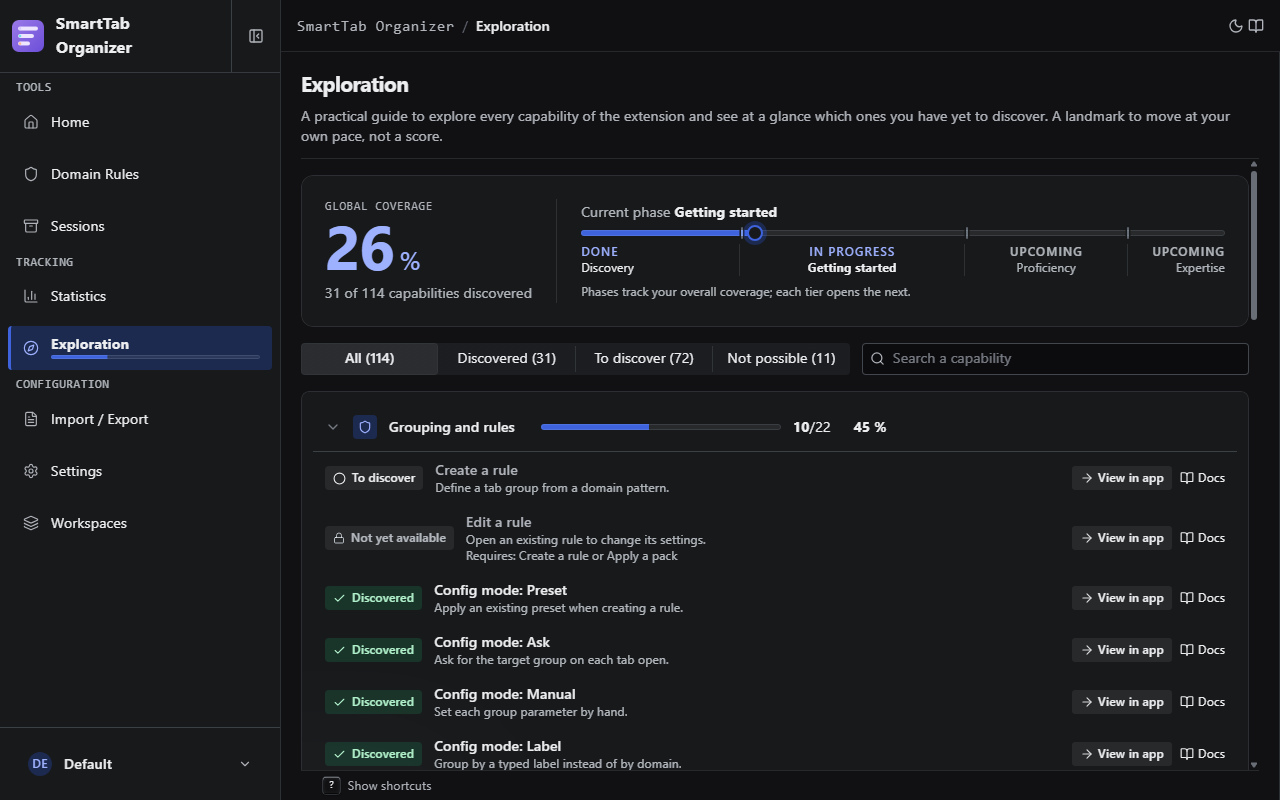
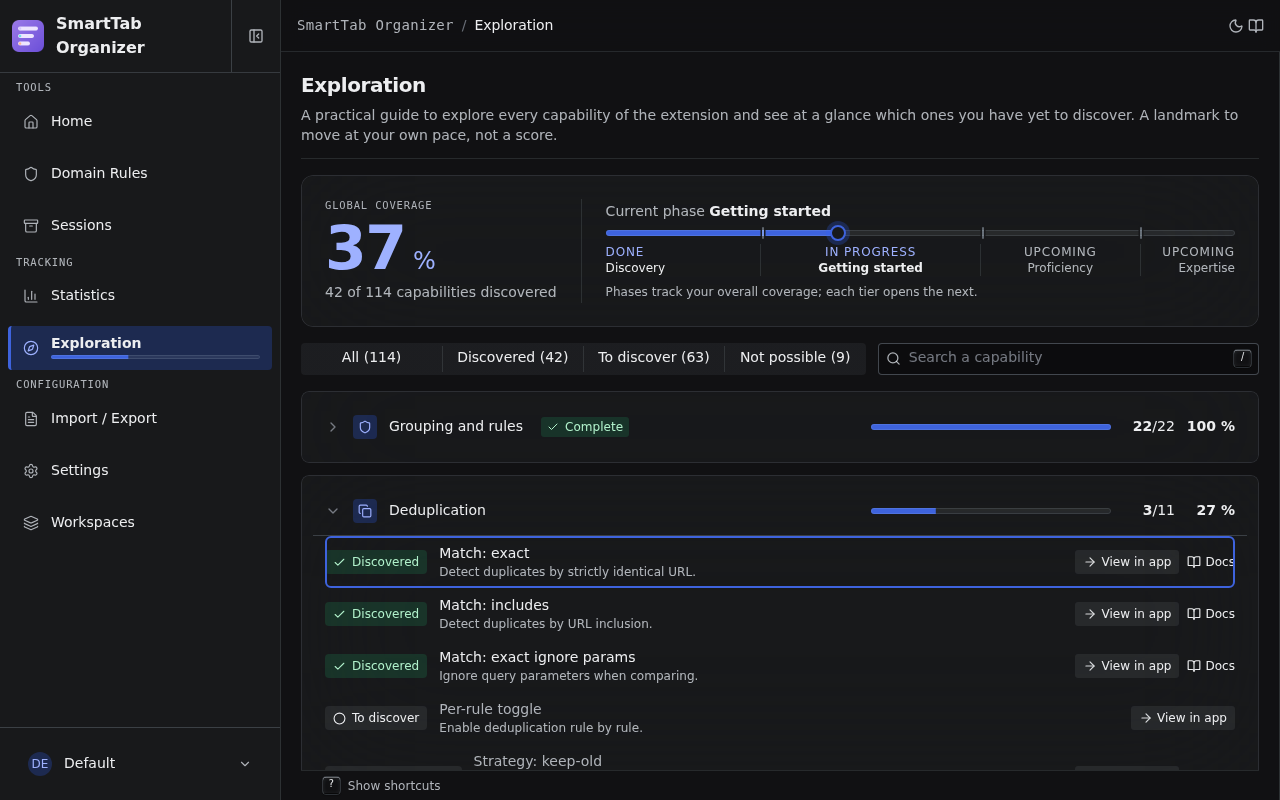
Redesign Exploration capacity-group header layout (#452)
* Redesign Exploration capacity-group header layout

Right-align the progress bar, ratio and percentage cluster on each domain
header row, and move the "Terminé" badge to sit right after the title when
the domain is fully discovered.

- ExplorationDomainGroup.tsx: reorder header children (badge after title)
- Exploration.module.css: fixed-basis .domainBar pushed right via margin-left:auto
- Add a Complete (100%) Storybook story
- Regenerate exploration-overview doc screenshots (3 locales x 2 themes)

* Show a completed domain in the Exploration doc capture

Re-seed scenario 28 so the first domain (grouping) is fully discovered: it
collapses to a header row showing the "Terminé" badge right after the title,
which documents the new completed-group design. The next domain (dedup)
auto-opens and keeps illustrating the three row states (its keep-strategy rows
stay locked because deduplication is no longer enabled in the seed).

Regenerate the exploration-overview screenshots (3 locales x 2 themes).

* Align Exploration progress bars across domain rows

Give the ratio and percentage fixed, right-aligned column widths so a wider
value (e.g. "22/22 100 %") no longer pushes its row's progress bar left. Every
domain bar now ends at the same x position.

Regenerate the exploration-overview screenshots.

---------

diff --git a/e2e-doc-scenarios/scenarios/28-exploration.scenario.ts b/e2e-doc-scenarios/scenarios/28-exploration.scenario.ts
@@ -15,19 +15,26 @@ import { EXPLORATION_MANIFEST } from './28-exploration.routing.js';
 
 const SCENARIO_ID = '28-exploration';
 
-// Curated so the default-open "grouping" domain shows all three states:
-// several discovered rows, "Create a rule" still to discover, and the
-// rule-dependent rows locked (their prerequisite is not met).
+// Curated so the first domain ("grouping") is fully discovered: it collapses to
+// a single header row showing the green "Terminé" badge right after the title,
+// which showcases the completed-group design. The next incomplete domain
+// ("dedup") then auto-opens and illustrates the three row states: several
+// discovered rows, two still to discover, and the keep-strategy rows locked
+// (their prerequisite, deduplication enabled, is not met).
 const DISCOVERED = [
-  'grouping.mode.preset', 'grouping.mode.ask', 'grouping.mode.manual', 'grouping.mode.label',
-  'grouping.color', 'grouping.nameSource.title', 'grouping.url.regex', 'grouping.titleRegex',
-  'grouping.fallbackLabel',
+  'grouping.create', 'grouping.edit', 'grouping.mode.preset', 'grouping.mode.ask',
+  'grouping.mode.manual', 'grouping.mode.label', 'grouping.nameSource.title',
+  'grouping.nameSource.url', 'grouping.nameSource.smart', 'grouping.url.regex',
+  'grouping.url.queryParam', 'grouping.titleRegex', 'grouping.fallbackLabel',
+  'grouping.color', 'grouping.presetApplied', 'grouping.reorder.drag',
+  'grouping.reorder.keyboard', 'grouping.toggle', 'grouping.overlaps',
+  'grouping.merge', 'grouping.view.filterSort',
   'dedup.match.exact', 'dedup.match.includes', 'dedup.match.ignoreParams',
   'sessions.snapshot', 'sessions.restore.current',
   'workspaces.create',
   'packs.openGallery',
   'stats.view', 'stats.exploration', 'stats.trends',
-  'settings.theme', 'settings.toggle.grouping', 'settings.toggle.dedup', 'settings.quickActions',
+  'settings.theme', 'settings.toggle.grouping', 'settings.quickActions',
   'nav.globalSearch', 'nav.mnemonics',
   'help.drawer', 'help.contextF1',
   'io.exportRules', 'io.importRules',

diff --git a/src/components/Core/Exploration/ExplorationDomainGroup.tsx b/src/components/Core/Exploration/ExplorationDomainGroup.tsx
@@ -88,21 +88,21 @@ export function ExplorationDomainGroup({
       <Text size="2" weight="medium" style={{ minWidth: 140, lineHeight: 1 }}>
         {name}
       </Text>
-      <Box className={styles.domainBar}>
-        <Progress value={percent} size="2" aria-hidden="true" />
-      </Box>
-      <Text size="2" className={styles.numeric} style={{ lineHeight: 1 }}>
-        <Text as="span" weight="bold">{discovered}</Text>/{total}
-      </Text>
-      <Text size="2" weight="bold" highContrast className={styles.numeric} style={{ minWidth: 44, textAlign: 'right', lineHeight: 1 }}>
-        {percent} %
-      </Text>
       {percent === 100 && (
-        <Badge color="green" variant="soft" highContrast size="1" ml="2">
+        <Badge color="green" variant="soft" highContrast size="1">
           <Check size={12} aria-hidden="true" />
           {getMessage('explorationDomainComplete')}
         </Badge>
       )}
+      <Box className={styles.domainBar}>
+        <Progress value={percent} size="2" aria-hidden="true" />
+      </Box>
+      <Text size="2" className={styles.numeric} style={{ minWidth: 52, textAlign: 'right', lineHeight: 1 }}>
+        <Text as="span" weight="bold">{discovered}</Text>/{total}
+      </Text>
+      <Text size="2" weight="bold" highContrast className={styles.numeric} style={{ minWidth: 48, textAlign: 'right', lineHeight: 1 }}>
+        {percent} %
+      </Text>
     </Flex>
   );
 

diff --git a/src/components/Core/Exploration/ExplorationDomainGroup.stories.tsx b/src/components/Core/Exploration/ExplorationDomainGroup.stories.tsx
@@ -46,3 +46,14 @@ export const ExplorationDomainGroupCollapsed: Story = {
 export const ExplorationDomainGroupForcedOpen: Story = {
   args: { ...baseArgs, open: false, forceOpen: true },
 };
+
+export const ExplorationDomainGroupComplete: Story = {
+  args: {
+    ...baseArgs,
+    discovered: groupingEntries.length,
+    total: groupingEntries.length,
+    percent: 100,
+    open: false,
+    forceOpen: false,
+  },
+};

diff --git a/src/components/Core/Exploration/Exploration.module.css b/src/components/Core/Exploration/Exploration.module.css
@@ -99,9 +99,9 @@
 }
 
 .domainBar {
-  flex: 1;
+  flex: 0 1 240px;
   min-width: 60px;
-  max-width: 240px;
+  margin-left: auto;
   display: flex;
   align-items: center;
   align-self: stretch;
